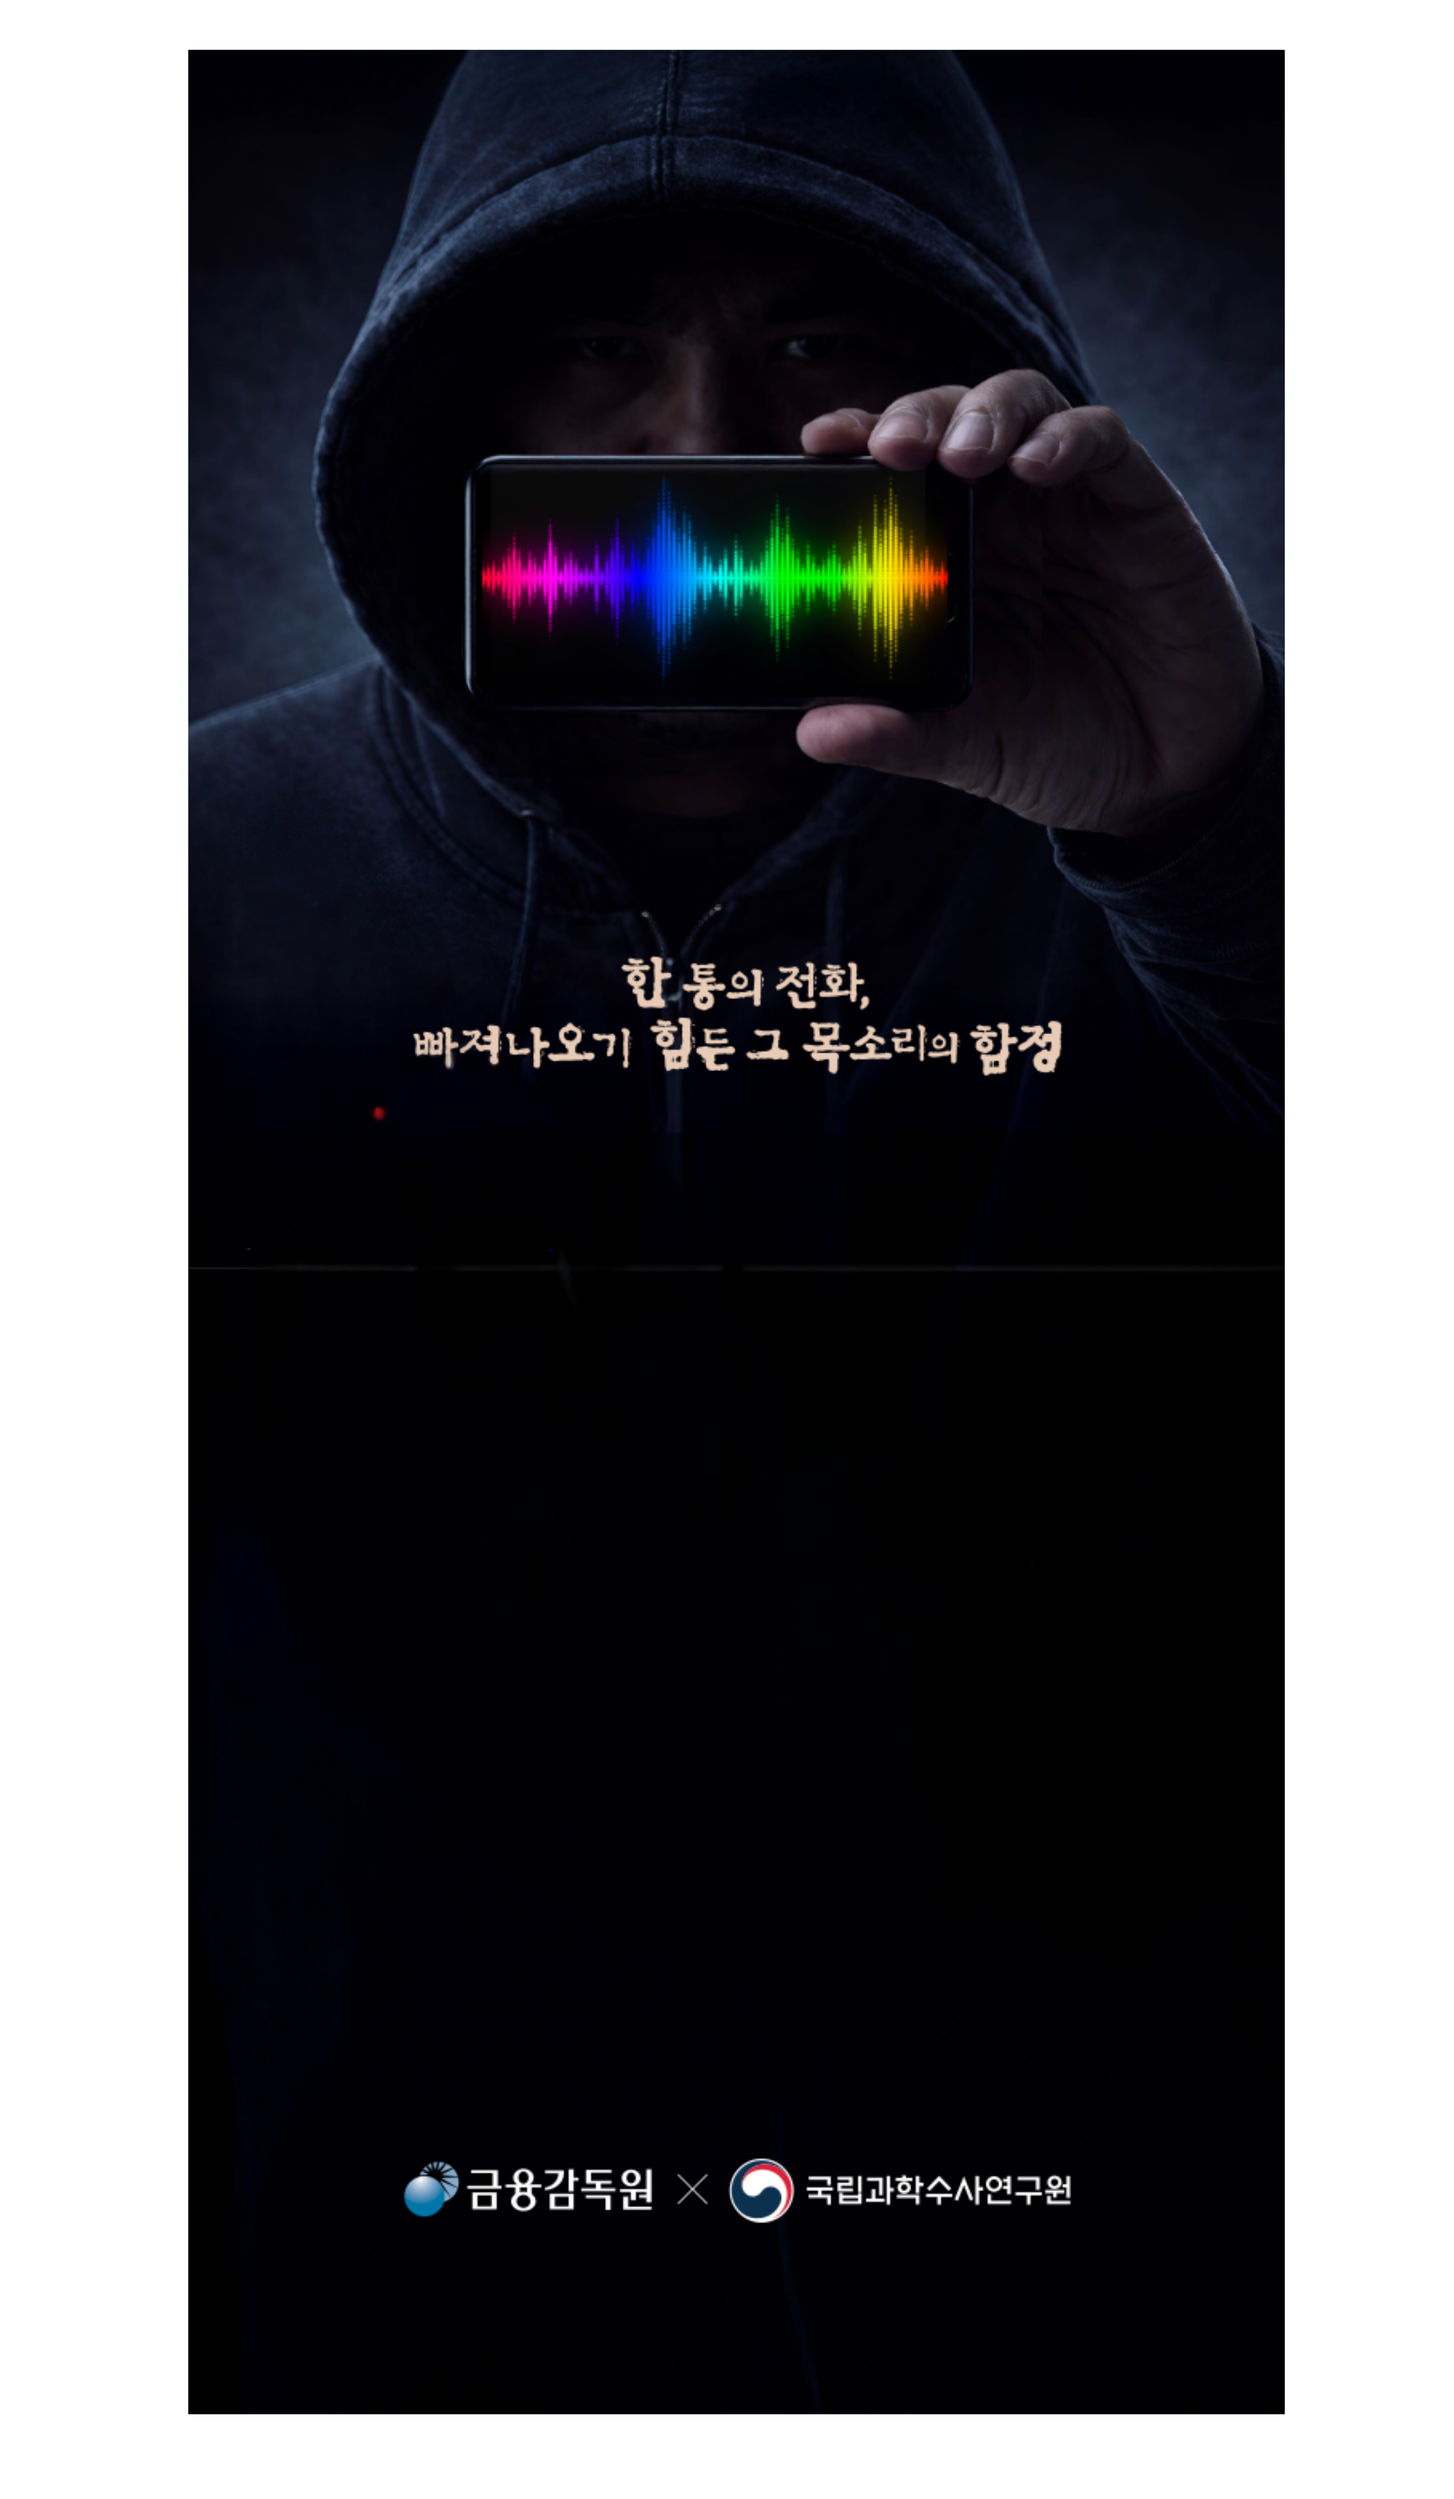
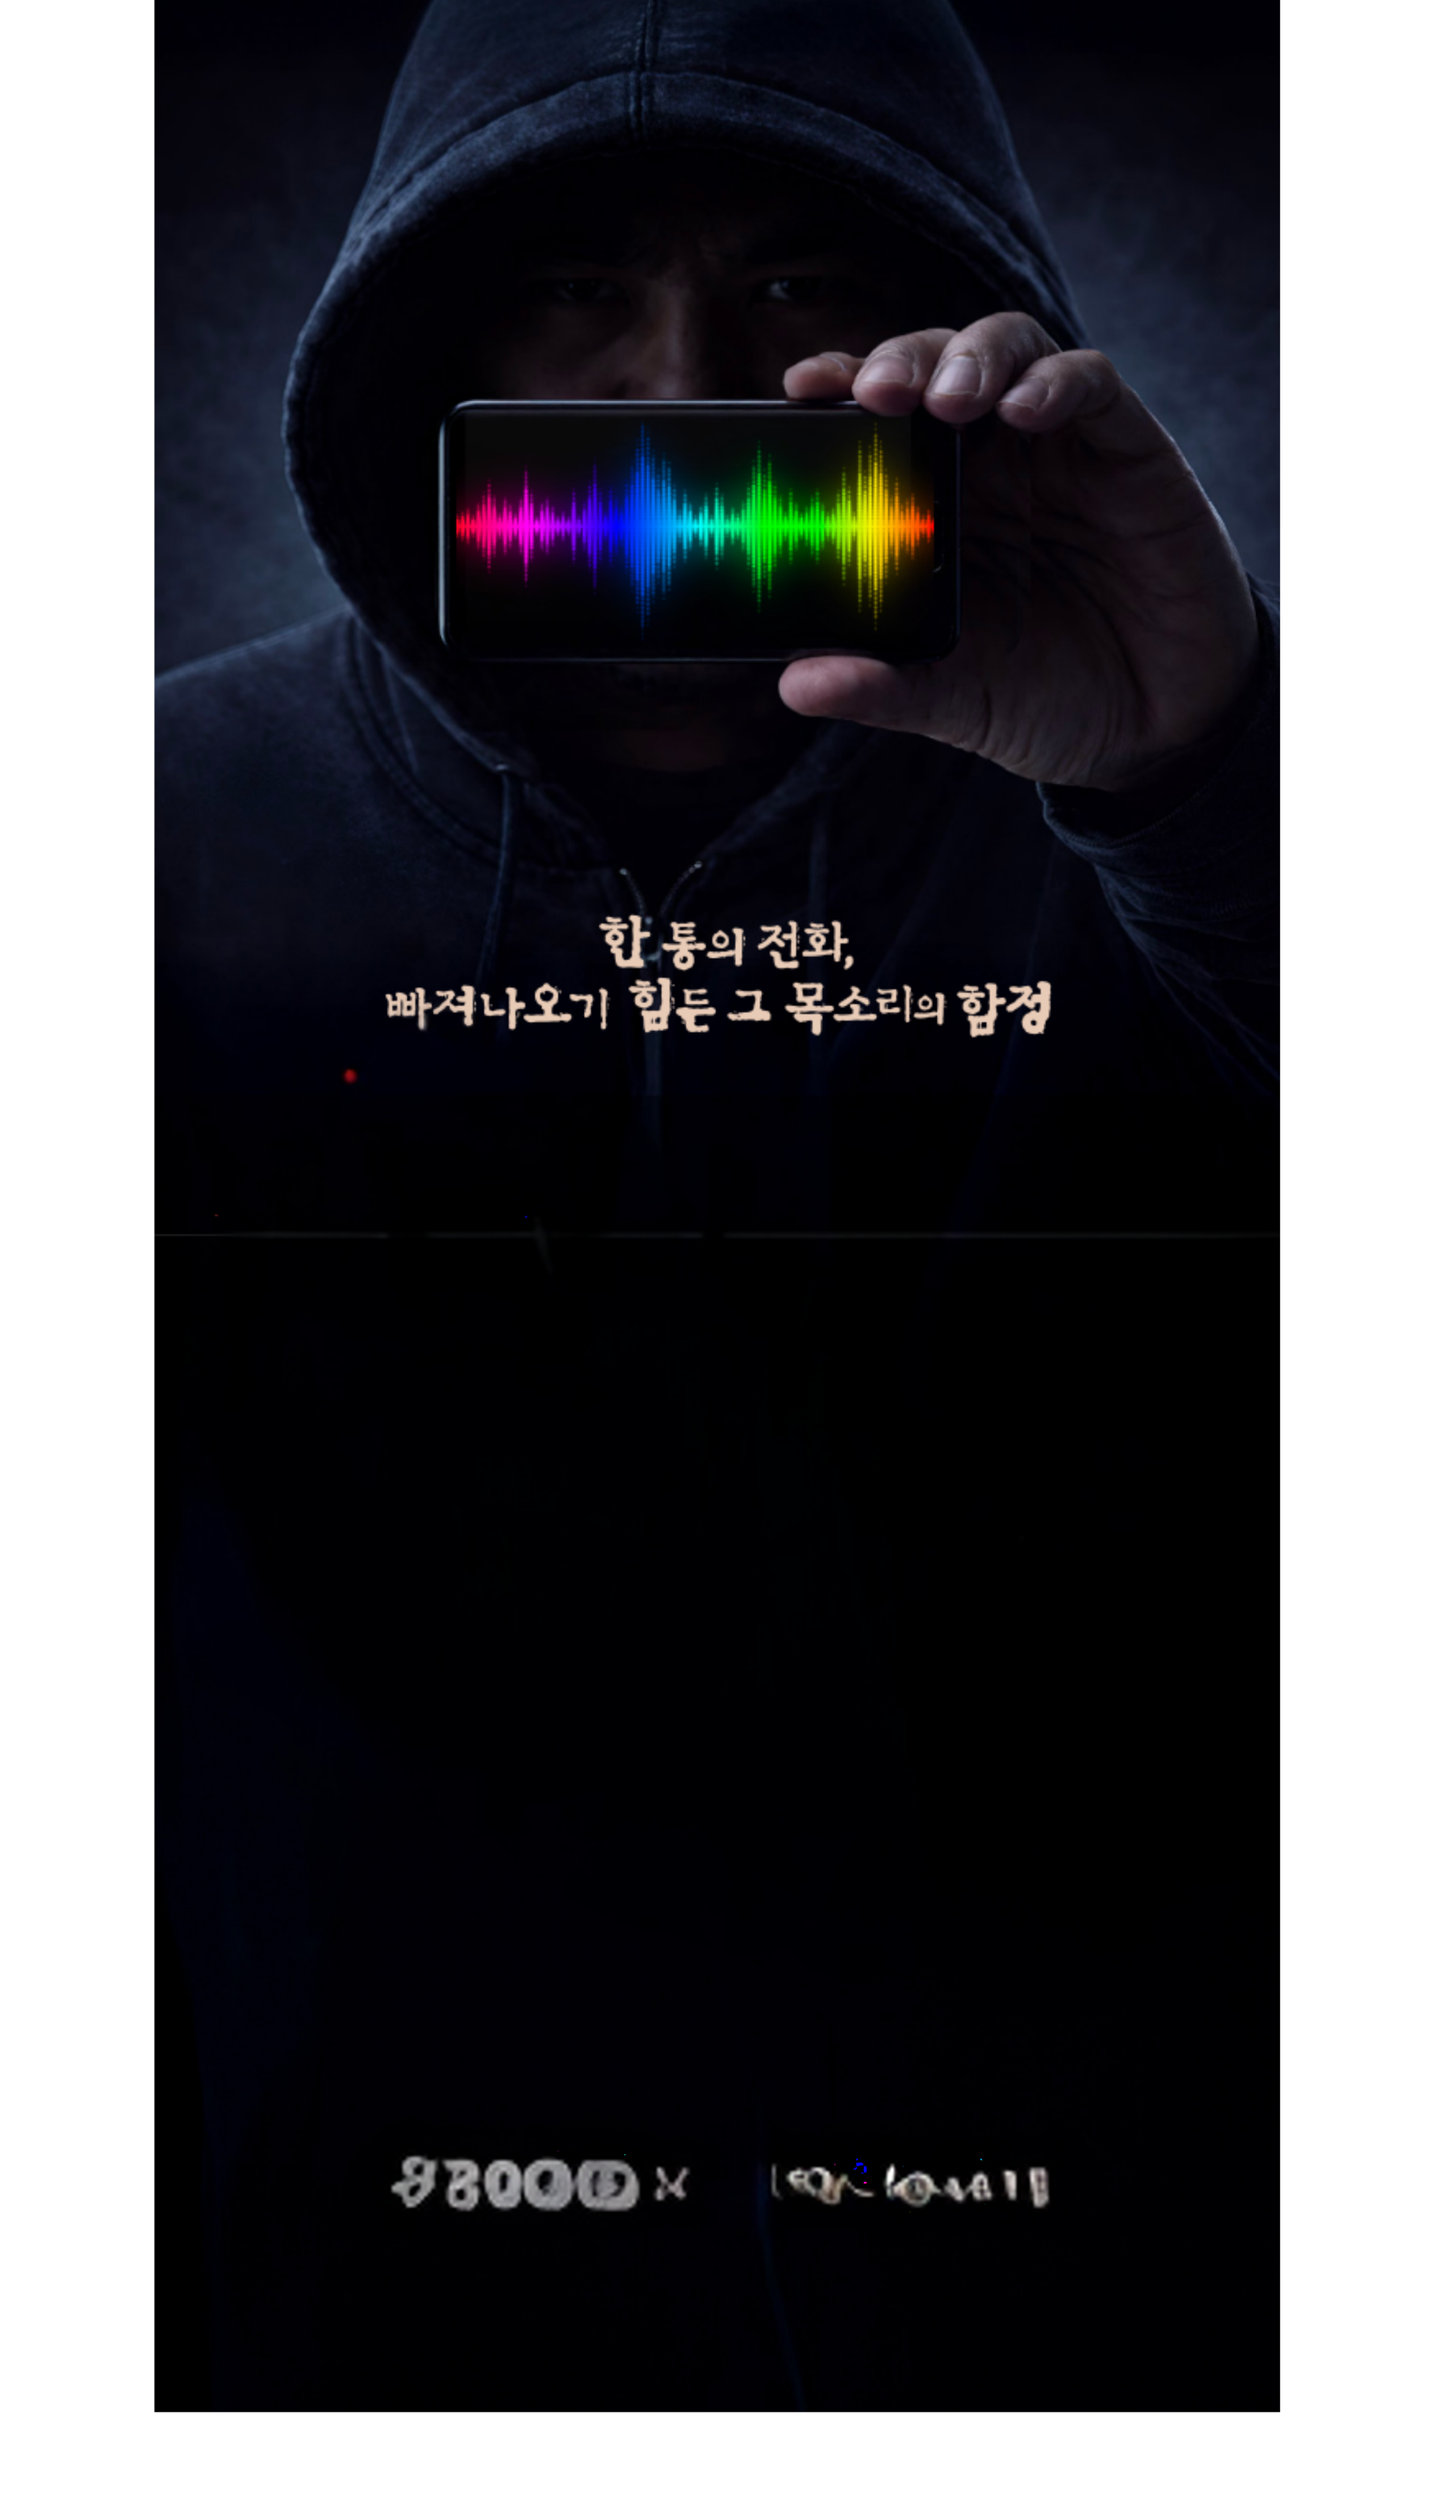
수정

diff --git a/css/style.css b/css/style.css
@@ -360,12 +360,12 @@ img {
 
 .ticker-text {
   font-family: "BMYeonsung", sans-serif;
-  font-style: italic;
+  font-style: normal;
   font-weight: 400;
   color: #e02020;
   white-space: nowrap;
   font-stretch: 100%;
-  letter-spacing: 10px;
+  letter-spacing: 0.01em;
   text-shadow: 0 0 8px rgba(200, 0, 0, 0.5);
 }
 
@@ -700,6 +700,49 @@ img {
     top: 54%; /* TODO: 조정 필요 */
     left: 12%; /* TODO: 조정 필요 */
     width: 77%;
+  }
+}
+
+/* 로고 바 — #intro1-glitch(inset:0) 기준 절대배치, 비율 무관 고정 */
+.intro1-logo-bar {
+  position: absolute;
+  left: 0;
+  bottom: 0;
+  width: 100%;
+  background: #000;
+  z-index: 10;
+  pointer-events: none;
+  display: flex;
+  align-items: center;
+  justify-content: center;
+}
+.intro1-logo-bar img {
+  width: auto;
+  height: 100%;
+  display: block;
+}
+
+/* PC 로고 바 */
+.intro1-logo-bar-pc {
+  bottom: auto;
+  top: 89%;
+  height: 60px;
+}
+
+/* 모바일 로고 바 — PC에서 숨김 */
+.intro1-logo-bar-mo {
+  display: none;
+}
+
+@media (max-width: 768px) {
+  .intro1-logo-bar-pc {
+    display: none;
+  }
+  .intro1-logo-bar-mo {
+    display: flex;
+    bottom: auto;
+    top: 86%;
+    height: 34px;
   }
 }
 

diff --git a/index.html b/index.html
@@ -130,6 +130,14 @@
               aria-hidden="true"
               draggable="false"
             />
+            <!-- 로고 바 — PC -->
+            <div class="intro1-logo-bar intro1-logo-bar-pc" aria-hidden="true">
+              <img src="image/intro1/item/데스크탑 인트로1 로고.png" alt="" draggable="false" />
+            </div>
+            <!-- 로고 바 — 모바일 -->
+            <div class="intro1-logo-bar intro1-logo-bar-mo" aria-hidden="true">
+              <img src="image/intro1/item-mobile/스마트폰 인트로1 로고.png" alt="" draggable="false" />
+            </div>
           </div>
         </div>
       </section>
